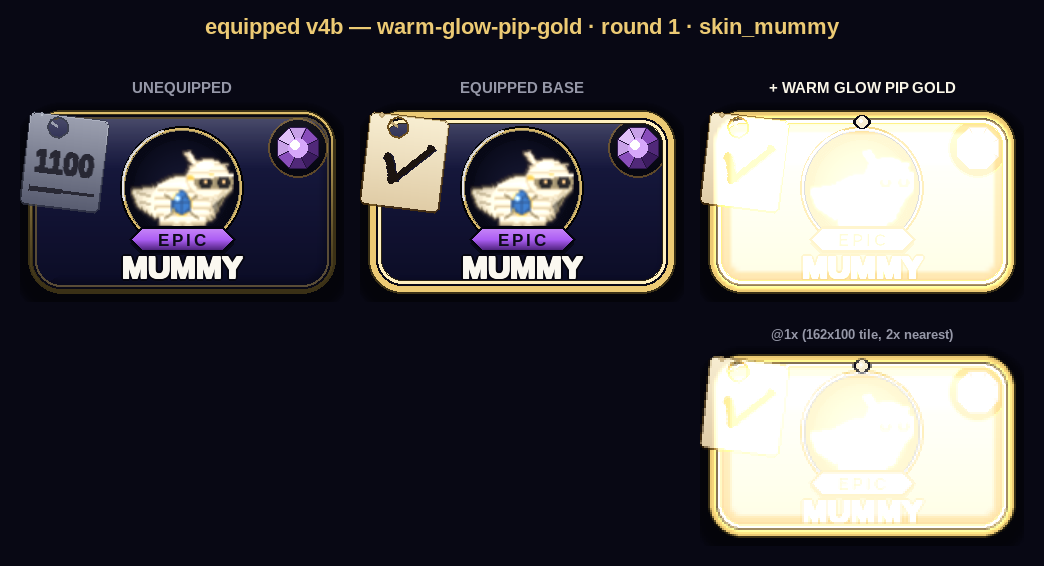
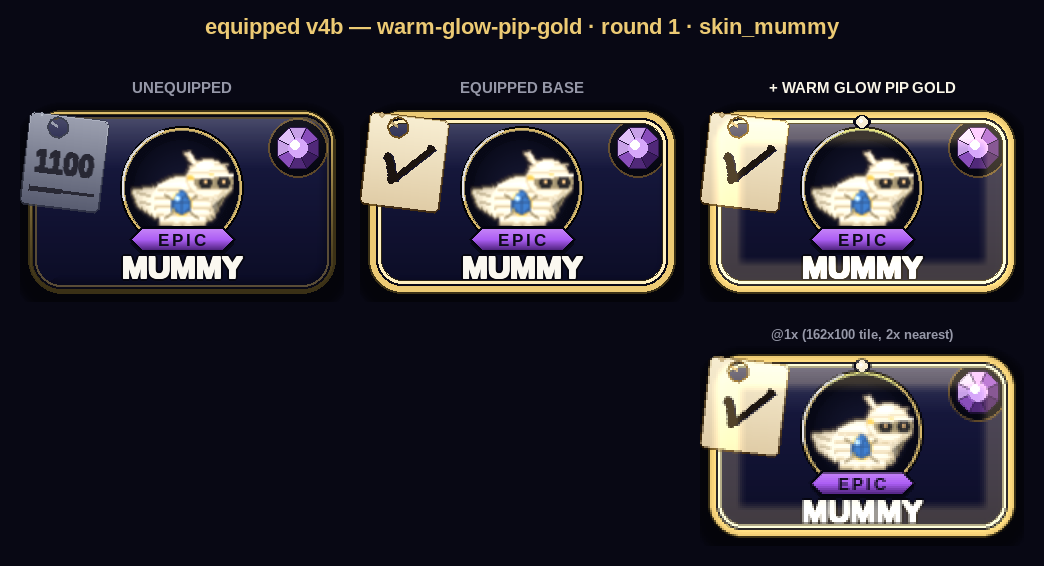
Add store_equipped_v4b warm-glow-pip-gold round 1
Claude-Session: https://claude.ai/code/session_01DaGYw11VdAubog2VGiiucC

Changed region(s): [[0.6743, 0.6307, 0.9808, 0.9611], [0.6743, 0.1802, 0.9808, 0.5106]]

diff --git a/tools/_store_equipped_v4b_warm_glow_pip_gold_r1.py b/tools/_store_equipped_v4b_warm_glow_pip_gold_r1.py
@@ -26,25 +26,28 @@ def draw_warm_glow_pip_gold(surf, body):
     the bloom is masked to the card body so it never spills past the frame."""
     rad = sc.m(sc.CARD_RAD)
 
-    # Soft interior bloom: concentric gold fills at falling alpha build a radial
-    # falloff, blurred by a down/up scale, then ADD-blit so it lifts the dark
-    # obsidian body to a warm amber without touching the bright beads it sits
-    # inside of. Shape hugs the cream inner bead (inset 10) and works inward.
+    # Soft interior bloom: thick gold strokes hugging the cream inner bead, then
+    # a heavy down/up-scale blur bleeds that light INWARD — a steady falloff that
+    # is hottest at the keyline and fades toward the card centre. Premultiplied
+    # down (BLEND_RGB_ADD adds RGB at full strength regardless of surface alpha)
+    # so it lifts the obsidian body to a warm amber instead of blowing it out.
     bloom = pygame.Surface(surf.get_size(), pygame.SRCALPHA)
-    for inset, col in ((10, (236, 202, 116, 120)),
-                       (16, (248, 220, 140, 100)),
-                       (24, (255, 240, 190, 70))):
+    for inset, w, col in ((10, sc.m(9), (248, 220, 140)),
+                          (18, sc.m(8), (236, 202, 116))):
         r = body.inflate(-2 * inset, -2 * inset)
-        pygame.draw.rect(bloom, col, r, border_radius=max(1, rad - inset))
-    # cheap Gaussian: collapse to a quarter and smooth back for a soft falloff.
-    small = pygame.transform.smoothscale(bloom, (surf.get_width() // 4,
-                                                 surf.get_height() // 4))
+        pygame.draw.rect(bloom, (*col, 255), r, width=w,
+                         border_radius=max(1, rad - inset))
+    # cheap Gaussian: collapse to a fifth and smooth back for a wide soft bleed.
+    small = pygame.transform.smoothscale(bloom, (surf.get_width() // 5,
+                                                 surf.get_height() // 5))
     bloom = pygame.transform.smoothscale(small, surf.get_size())
+    # dim to a gentle additive lift so the interior warms, never washes to white.
+    bloom.fill((60, 60, 60, 255), special_flags=pygame.BLEND_RGB_MULT)
     # clip the blurred bleed to the card body so light stays inside the frame.
     mask = pygame.Surface(surf.get_size(), pygame.SRCALPHA)
     pygame.draw.rect(mask, (255, 255, 255, 255), body, border_radius=rad)
     bloom.blit(mask, (0, 0), special_flags=pygame.BLEND_RGBA_MIN)
-    surf.blit(bloom, (0, 0), special_flags=pygame.BLEND_RGBA_ADD)
+    surf.blit(bloom, (0, 0), special_flags=pygame.BLEND_RGB_ADD)
 
     # Cream pip on the top inner bead — a warm lit bulb, the glow's source node.
     cx, cy = 162, 20
